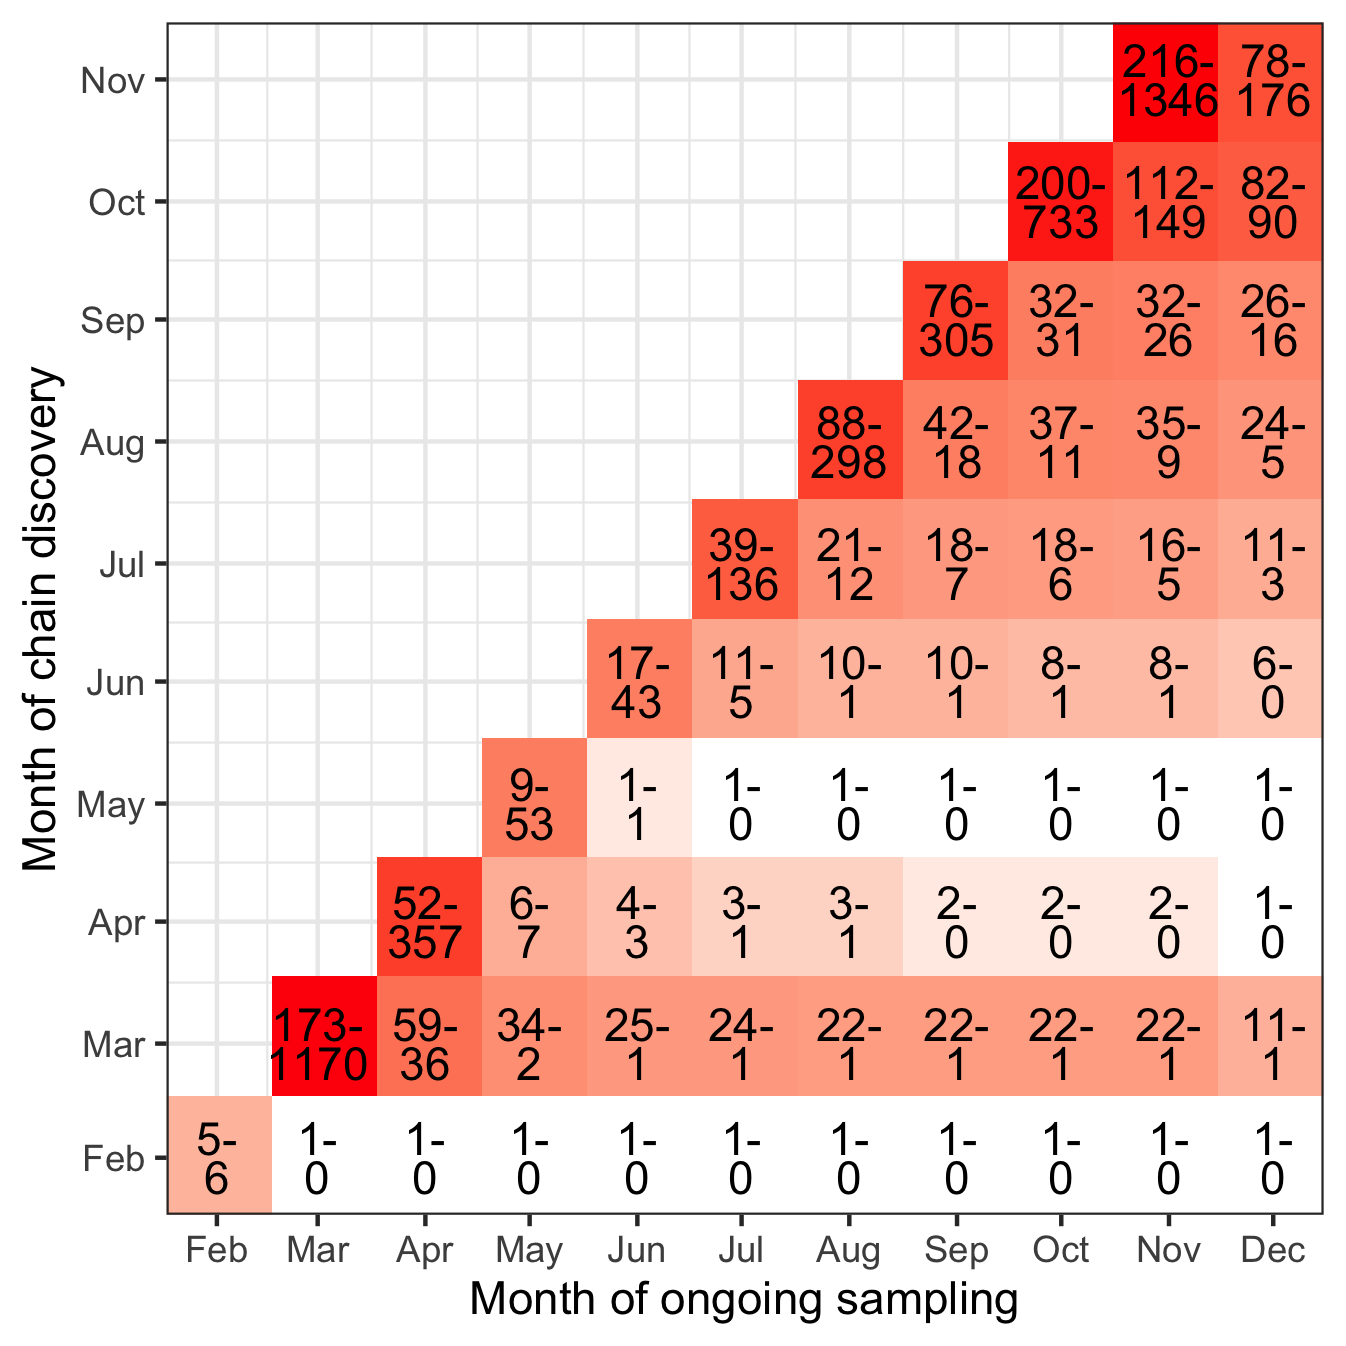
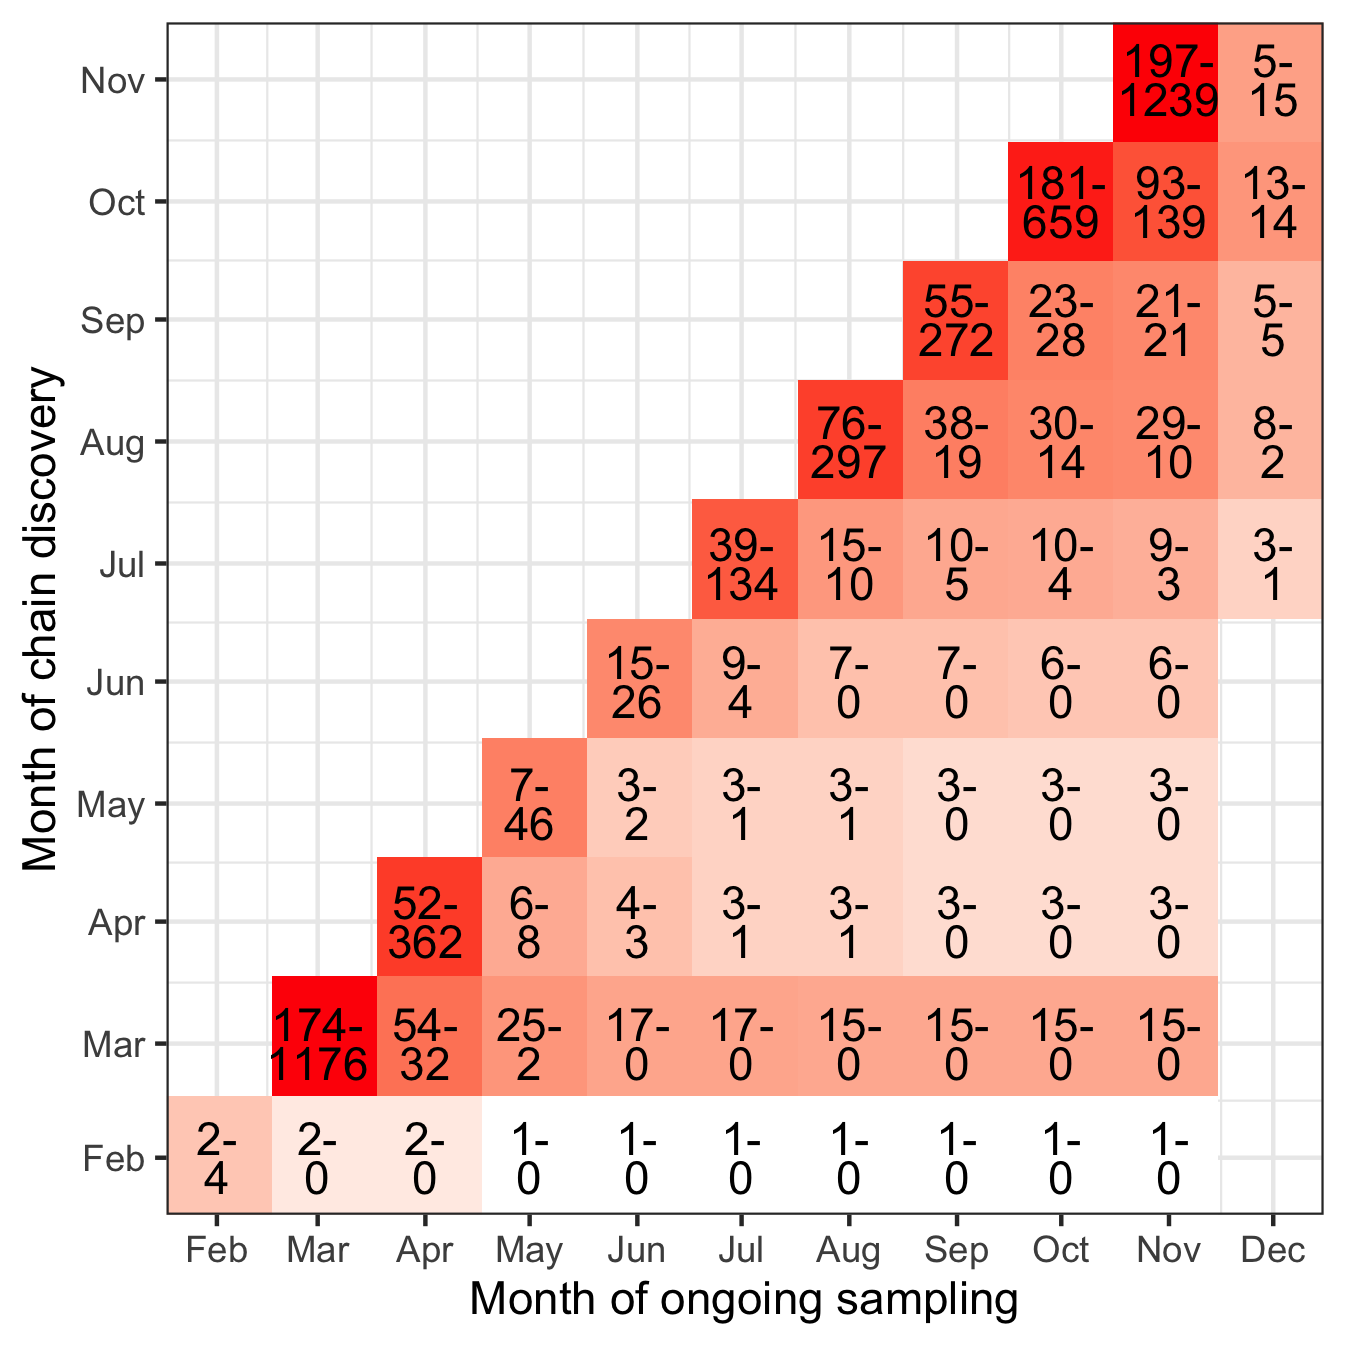
update results after fixing panolin lineage rollup

diff --git a/manuscript/config_variables.tex b/manuscript/config_variables.tex
@@ -1,5 +1,5 @@
 \newcommand\mindate{01. Jan. 2020}
-\newcommand\maxdate{31. Dec. 2020}
+\newcommand\maxdate{01. Dec. 2020}
 \newcommand\minlength{27000}
 \newcommand\maxsamplingfraction{0.05}
 \newcommand\subsamplebycanton{TRUE}
@@ -9,8 +9,9 @@
 \newcommand\whichtrees{\.*}
 \newcommand\pickchainsunderothercriteria{TRUE}
 \newcommand\ntrees{-1}
-\newcommand\outgroupgisaidepiisls{EPI\_ISL\_406798 EPI\_ISL\_402125}
+\newcommand\outgroupgisaidepiisls{EPI\_ISL\_406798}
 \newcommand\uniquecontextonly{FALSE}
 \newcommand\favorexposures{FALSE}
+\newcommand\smoothconfcases{FALSE}
 \newcommand\maskfromstart{100}
 \newcommand\maskfromend{50}

diff --git a/manuscript/sample_summary_variables.tex b/manuscript/sample_summary_variables.tex
@@ -1,8 +1,7 @@
-\newcommand\nfocalsamples{8667}
-\newcommand\nfocalsamples{8667}
-\newcommand\nsimcontext{17292}
+\newcommand\nfocalsamples{5305}
+\newcommand\nsimcontext{10585}
 \newcommand\ntravelcontext{0}
 \newcommand\meanweeklysamplingpercent{3}
 \newcommand\minweeklysamplingpercent{0.16}
 \newcommand\maxweeklysamplingpercent{5}
-\newcommand\overallsamplingpercent{1.9}
+\newcommand\overallsamplingpercent{1.6}

diff --git a/manuscript/chain_summary_variables.tex b/manuscript/chain_summary_variables.tex
@@ -1,7 +1,6 @@
-\newcommand\nchainsmin{746}
-\newcommand\nchainsmax{2995}
-\newcommand\minlargestchainsper{23}
-\newcommand\maxlargestchainsper{14}
+\newcommand\nchainsmin{526}
+\newcommand\nchainsmax{2248}
+\newcommand\minlargestchainsper{32}
+\newcommand\maxlargestchainsper{15}
 \newcommand\nspanningchainsmin{}
 \newcommand\nspanningchainsmax{}
-https://www.overleaf.com/project/6051a5c9217a5042fadf7d8f
